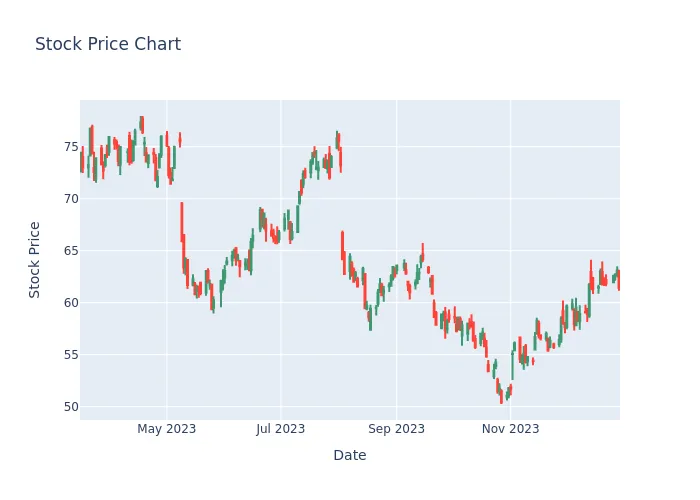
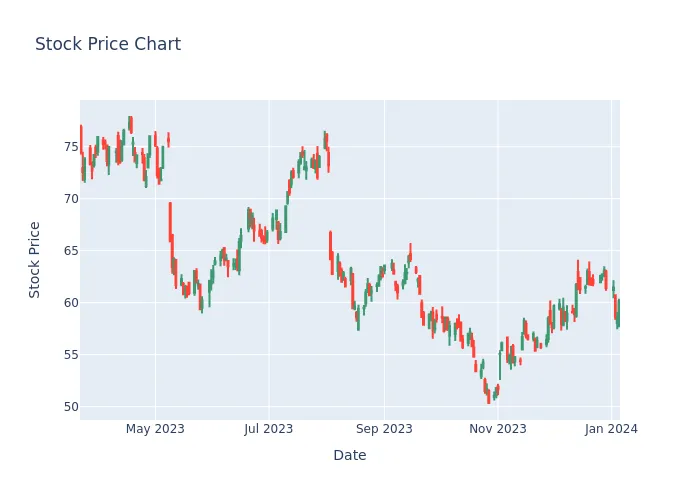
new dips

diff --git a/content/dipfinder.md b/content/dipfinder.md
@@ -23,7 +23,7 @@ Imagine you own a share of a company, which is like owning a tiny piece of that 
 In my case I wanted to find the longest consecutive "dip" of a stockprice regardless of temporary up's.
 
 ## Dip's
-The latest and greatest dips, updated at: **2023-12-31** (next: 2023-12-31)
+The latest and greatest dips, updated at: **2024-01-07** (next: 2024-01-07)
 
 | Symbol | Name | Loss | Days |
 | :----: | ---- | ---- | ---- |
@@ -34,9 +34,9 @@ The latest and greatest dips, updated at: **2023-12-31** (next: 2023-12-31)
 | [PFE](https://finance.yahoo.com/quote/PFE) | PFE | -28.662% | 242 |
 | [WBD](https://finance.yahoo.com/quote/WBD) | WBD | -28.043% | 284 |
 | [NEE](https://finance.yahoo.com/quote/NEE) | NEE | -22.834% | 229 |
+| [PYPL](https://finance.yahoo.com/quote/PYPL) | PYPL | -22.255% | 264 |
 | [MRK.DE](https://finance.yahoo.com/quote/MRK.DE) | MRK.DE | -21.916% | 288 |
 | [TCEHY](https://finance.yahoo.com/quote/TCEHY) | TCEHY | -21.497% | 254 |
-| [PYPL](https://finance.yahoo.com/quote/PYPL) | PYPL | -20.587% | 257 |
 | [SCHW](https://finance.yahoo.com/quote/SCHW) | SCHW | -19.414% | 287 |
 | [DE](https://finance.yahoo.com/quote/DE) | DE | -18.233% | 137 |
 | [MBG.DE](https://finance.yahoo.com/quote/MBG.DE) | MBG.DE | -17.385% | 176 |
@@ -57,6 +57,8 @@ The latest and greatest dips, updated at: **2023-12-31** (next: 2023-12-31)
 | [T](https://finance.yahoo.com/quote/T) | T | -12.071% | 240 |
 | [IBKR](https://finance.yahoo.com/quote/IBKR) | IBKR | -11.868% | 89 |
 | [BKN.F](https://finance.yahoo.com/quote/BKN.F) | BKN.F | -11.067% | 284 |
+| [NET](https://finance.yahoo.com/quote/NET) | NET | -11.054% | 10 |
+| [ADBE](https://finance.yahoo.com/quote/ADBE) | ADBE | -10.899% | 24 |
 | [SONY](https://finance.yahoo.com/quote/SONY) | SONY | -10.869% | 179 |
 | [WMT](https://finance.yahoo.com/quote/WMT) | WMT | -10.814% | 23 |
 | [JNJ](https://finance.yahoo.com/quote/JNJ) | JNJ | -10.141% | 134 |
@@ -70,13 +72,13 @@ The latest and greatest dips, updated at: **2023-12-31** (next: 2023-12-31)
 | [NVS](https://finance.yahoo.com/quote/NVS) | NVS | -8.399% | 142 |
 | [NVO](https://finance.yahoo.com/quote/NVO) | NVO | -8.355% | 14 |
 | [HXL](https://finance.yahoo.com/quote/HXL) | HXL | -8.209% | 150 |
+| [AVGO](https://finance.yahoo.com/quote/AVGO) | AVGO | -8.099% | 18 |
 | [ABBV](https://finance.yahoo.com/quote/ABBV) | ABBV | -7.553% | 228 |
 | [BAC](https://finance.yahoo.com/quote/BAC) | BAC | -7.148% | 280 |
 | [PG](https://finance.yahoo.com/quote/PG) | PG | -7.018% | 123 |
 | [KO](https://finance.yahoo.com/quote/KO) | KO | -6.689% | 222 |
 | [XYL](https://finance.yahoo.com/quote/XYL) | XYL | -6.363% | 137 |
 | [BRYN.F](https://finance.yahoo.com/quote/BRYN.F) | BRYN.F | -5.93% | 81 |
-| [ADBE](https://finance.yahoo.com/quote/ADBE) | ADBE | -5.849% | 17 |
 | [NVDA](https://finance.yahoo.com/quote/NVDA) | NVDA | -5.751% | 18 |
 | [DTG.DE](https://finance.yahoo.com/quote/DTG.DE) | DTG.DE | -5.729% | 121 |
 | [TSM](https://finance.yahoo.com/quote/TSM) | TSM | -5.695% | 178 |
@@ -89,13 +91,12 @@ The latest and greatest dips, updated at: **2023-12-31** (next: 2023-12-31)
 | [MELI](https://finance.yahoo.com/quote/MELI) | MELI | -4.481% | 7 |
 | [VEOEY](https://finance.yahoo.com/quote/VEOEY) | VEOEY | -4.154% | 141 |
 | [ICE](https://finance.yahoo.com/quote/ICE) | ICE | -4.066% | 102 |
+| [GOOG](https://finance.yahoo.com/quote/GOOG) | GOOG | -3.802% | 10 |
 | [CRM](https://finance.yahoo.com/quote/CRM) | CRM | -3.535% | 7 |
 | [C](https://finance.yahoo.com/quote/C) | C | -3.25% | 280 |
 | [LLY](https://finance.yahoo.com/quote/LLY) | LLY | -3.226% | 30 |
 | [MCD](https://finance.yahoo.com/quote/MCD) | MCD | -3.225% | 162 |
 | [SHOP](https://finance.yahoo.com/quote/SHOP) | SHOP | -2.944% | 3 |
-| [NET](https://finance.yahoo.com/quote/NET) | NET | -2.915% | 3 |
-| [AVGO](https://finance.yahoo.com/quote/AVGO) | AVGO | -2.233% | 11 |
 | [MSFT](https://finance.yahoo.com/quote/MSFT) | MSFT | -2.213% | 10 |
 | [VNA.F](https://finance.yahoo.com/quote/VNA.F) | VNA.F | -2.138% | 2 |
 | [SIE.DE](https://finance.yahoo.com/quote/SIE.DE) | SIE.DE | -2.027% | 177 |
@@ -106,14 +107,13 @@ The latest and greatest dips, updated at: **2023-12-31** (next: 2023-12-31)
 | [EA](https://finance.yahoo.com/quote/EA) | EA | -1.449% | 137 |
 | [FFIV](https://finance.yahoo.com/quote/FFIV) | FFIV | -1.346% | 4 |
 | [HD](https://finance.yahoo.com/quote/HD) | HD | -1.326% | 99 |
-| [GOOG](https://finance.yahoo.com/quote/GOOG) | GOOG | -1.323% | 3 |
 | [RSG](https://finance.yahoo.com/quote/RSG) | RSG | -1.299% | 7 |
 | [WM](https://finance.yahoo.com/quote/WM) | WM | -1.084% | 4 |
 | [MA](https://finance.yahoo.com/quote/MA) | MA | -1.048% | 82 |
+| [V](https://finance.yahoo.com/quote/V) | V | -1.025% | 23 |
 | [GS](https://finance.yahoo.com/quote/GS) | GS | -0.98% | 284 |
 | [BLK](https://finance.yahoo.com/quote/BLK) | BLK | -0.89% | 4 |
 | [CTAS](https://finance.yahoo.com/quote/CTAS) | CTAS | -0.881% | 7 |
-| [V](https://finance.yahoo.com/quote/V) | V | -0.774% | 16 |
 | [INTU](https://finance.yahoo.com/quote/INTU) | INTU | -0.577% | 9 |
 | [MUV2.DE](https://finance.yahoo.com/quote/MUV2.DE) | MUV2.DE | -0.559% | 3 |
 | [AFL](https://finance.yahoo.com/quote/AFL) | AFL | -0.506% | 11 |
@@ -202,6 +202,15 @@ ___
 ![Chart of the last 229 days of NEE's stockprice](/charts/NEE.webp)
 ___
 
+#### PYPL Info
+- Yahoo Finance Link: [PYPL](https://finance.yahoo.com/quote/PYPL)
+- Name: PYPL
+- Days: 264
+- Total "dip": -22.255% 
+#### PYPL Chart
+![Chart of the last 264 days of PYPL's stockprice](/charts/PYPL.webp)
+___
+
 #### MRK.DE Info
 - Yahoo Finance Link: [MRK.DE](https://finance.yahoo.com/quote/MRK.DE)
 - Name: MRK.DE
@@ -218,15 +227,6 @@ ___
 - Total "dip": -21.497% 
 #### TCEHY Chart
 ![Chart of the last 254 days of TCEHY's stockprice](/charts/TCEHY.webp)
-___
-
-#### PYPL Info
-- Yahoo Finance Link: [PYPL](https://finance.yahoo.com/quote/PYPL)
-- Name: PYPL
-- Days: 257
-- Total "dip": -20.587% 
-#### PYPL Chart
-![Chart of the last 257 days of PYPL's stockprice](/charts/PYPL.webp)
 ___
 
 #### SCHW Info
@@ -409,6 +409,24 @@ ___
 ![Chart of the last 284 days of BKN.F's stockprice](/charts/BKN.F.webp)
 ___
 
+#### NET Info
+- Yahoo Finance Link: [NET](https://finance.yahoo.com/quote/NET)
+- Name: NET
+- Days: 10
+- Total "dip": -11.054% 
+#### NET Chart
+![Chart of the last 10 days of NET's stockprice](/charts/NET.webp)
+___
+
+#### ADBE Info
+- Yahoo Finance Link: [ADBE](https://finance.yahoo.com/quote/ADBE)
+- Name: ADBE
+- Days: 24
+- Total "dip": -10.899% 
+#### ADBE Chart
+![Chart of the last 24 days of ADBE's stockprice](/charts/ADBE.webp)
+___
+
 #### SONY Info
 - Yahoo Finance Link: [SONY](https://finance.yahoo.com/quote/SONY)
 - Name: SONY
@@ -526,6 +544,15 @@ ___
 ![Chart of the last 150 days of HXL's stockprice](/charts/HXL.webp)
 ___
 
+#### AVGO Info
+- Yahoo Finance Link: [AVGO](https://finance.yahoo.com/quote/AVGO)
+- Name: AVGO
+- Days: 18
+- Total "dip": -8.099% 
+#### AVGO Chart
+![Chart of the last 18 days of AVGO's stockprice](/charts/AVGO.webp)
+___
+
 #### ABBV Info
 - Yahoo Finance Link: [ABBV](https://finance.yahoo.com/quote/ABBV)
 - Name: ABBV
@@ -578,15 +605,6 @@ ___
 - Total "dip": -5.93% 
 #### BRYN.F Chart
 ![Chart of the last 81 days of BRYN.F's stockprice](/charts/BRYN.F.webp)
-___
-
-#### ADBE Info
-- Yahoo Finance Link: [ADBE](https://finance.yahoo.com/quote/ADBE)
-- Name: ADBE
-- Days: 17
-- Total "dip": -5.849% 
-#### ADBE Chart
-![Chart of the last 17 days of ADBE's stockprice](/charts/ADBE.webp)
 ___
 
 #### NVDA Info
@@ -697,6 +715,15 @@ ___
 ![Chart of the last 102 days of ICE's stockprice](/charts/ICE.webp)
 ___
 
+#### GOOG Info
+- Yahoo Finance Link: [GOOG](https://finance.yahoo.com/quote/GOOG)
+- Name: GOOG
+- Days: 10
+- Total "dip": -3.802% 
+#### GOOG Chart
+![Chart of the last 10 days of GOOG's stockprice](/charts/GOOG.webp)
+___
+
 #### CRM Info
 - Yahoo Finance Link: [CRM](https://finance.yahoo.com/quote/CRM)
 - Name: CRM
@@ -740,24 +767,6 @@ ___
 - Total "dip": -2.944% 
 #### SHOP Chart
 ![Chart of the last 3 days of SHOP's stockprice](/charts/SHOP.webp)
-___
-
-#### NET Info
-- Yahoo Finance Link: [NET](https://finance.yahoo.com/quote/NET)
-- Name: NET
-- Days: 3
-- Total "dip": -2.915% 
-#### NET Chart
-![Chart of the last 3 days of NET's stockprice](/charts/NET.webp)
-___
-
-#### AVGO Info
-- Yahoo Finance Link: [AVGO](https://finance.yahoo.com/quote/AVGO)
-- Name: AVGO
-- Days: 11
-- Total "dip": -2.233% 
-#### AVGO Chart
-![Chart of the last 11 days of AVGO's stockprice](/charts/AVGO.webp)
 ___
 
 #### MSFT Info
@@ -850,15 +859,6 @@ ___
 ![Chart of the last 99 days of HD's stockprice](/charts/HD.webp)
 ___
 
-#### GOOG Info
-- Yahoo Finance Link: [GOOG](https://finance.yahoo.com/quote/GOOG)
-- Name: GOOG
-- Days: 3
-- Total "dip": -1.323% 
-#### GOOG Chart
-![Chart of the last 3 days of GOOG's stockprice](/charts/GOOG.webp)
-___
-
 #### RSG Info
 - Yahoo Finance Link: [RSG](https://finance.yahoo.com/quote/RSG)
 - Name: RSG
@@ -886,6 +886,15 @@ ___
 ![Chart of the last 82 days of MA's stockprice](/charts/MA.webp)
 ___
 
+#### V Info
+- Yahoo Finance Link: [V](https://finance.yahoo.com/quote/V)
+- Name: V
+- Days: 23
+- Total "dip": -1.025% 
+#### V Chart
+![Chart of the last 23 days of V's stockprice](/charts/V.webp)
+___
+
 #### GS Info
 - Yahoo Finance Link: [GS](https://finance.yahoo.com/quote/GS)
 - Name: GS
@@ -911,15 +920,6 @@ ___
 - Total "dip": -0.881% 
 #### CTAS Chart
 ![Chart of the last 7 days of CTAS's stockprice](/charts/CTAS.webp)
-___
-
-#### V Info
-- Yahoo Finance Link: [V](https://finance.yahoo.com/quote/V)
-- Name: V
-- Days: 16
-- Total "dip": -0.774% 
-#### V Chart
-![Chart of the last 16 days of V's stockprice](/charts/V.webp)
 ___
 
 #### INTU Info
